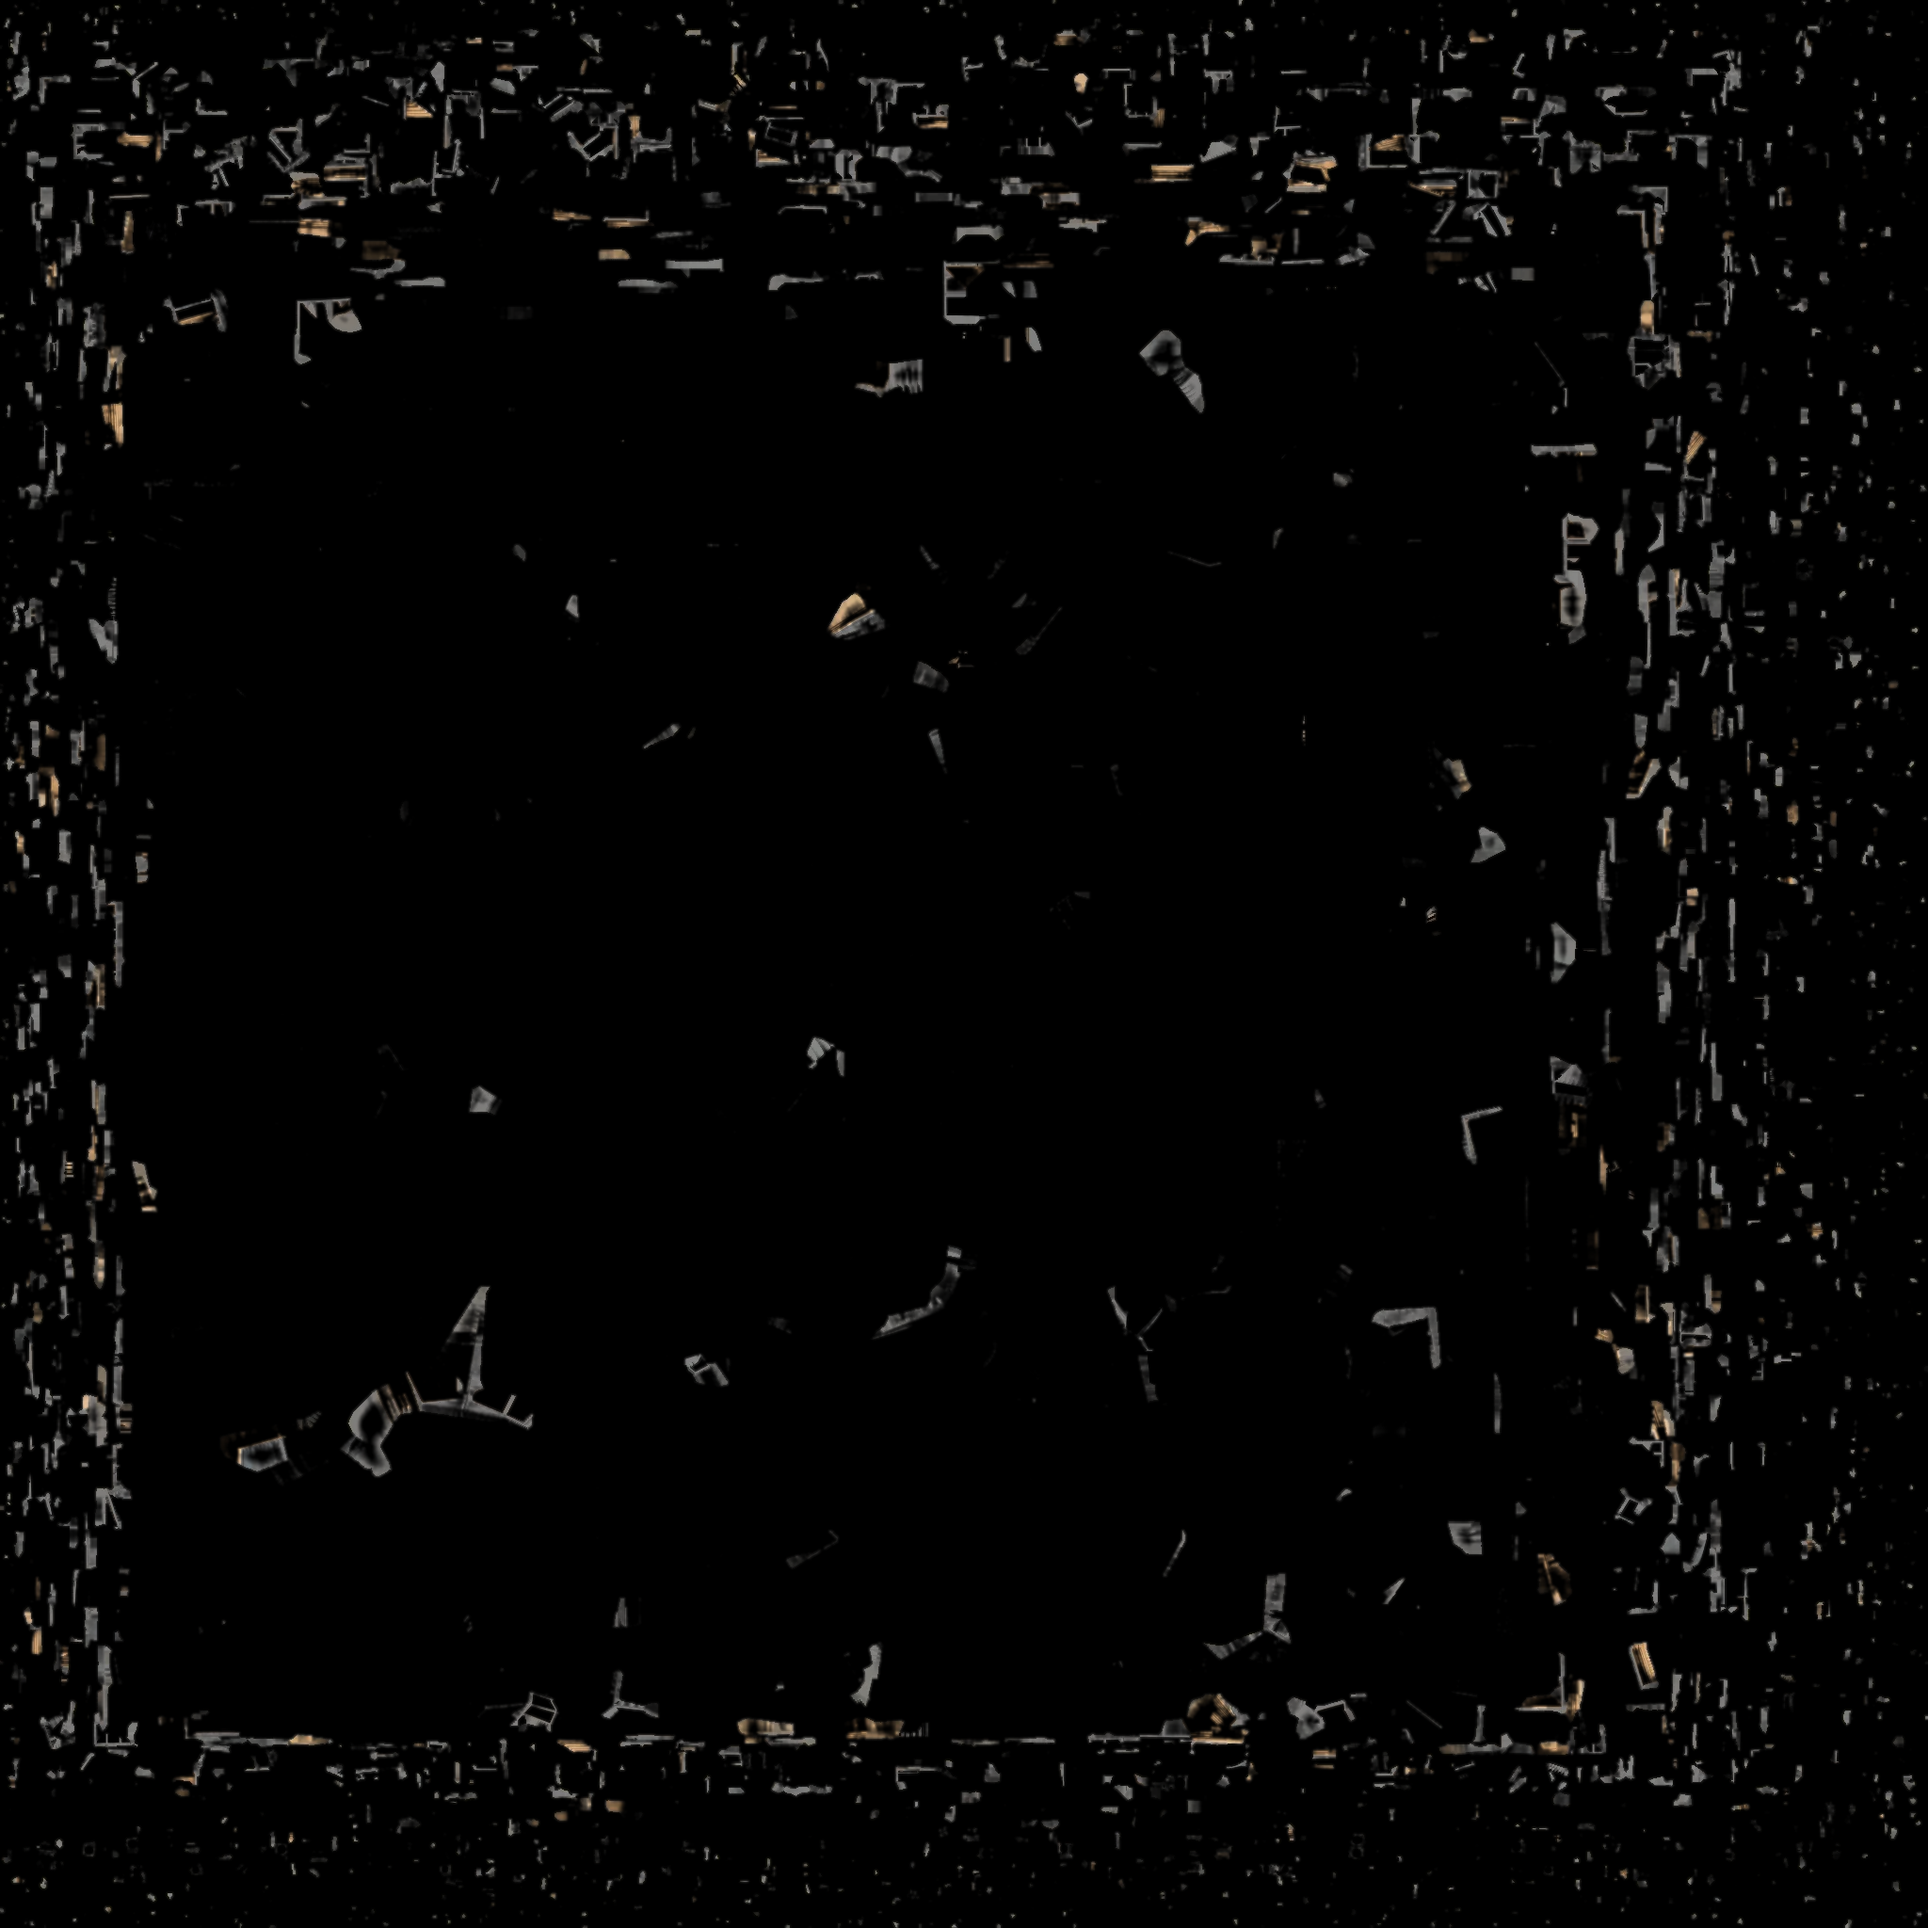
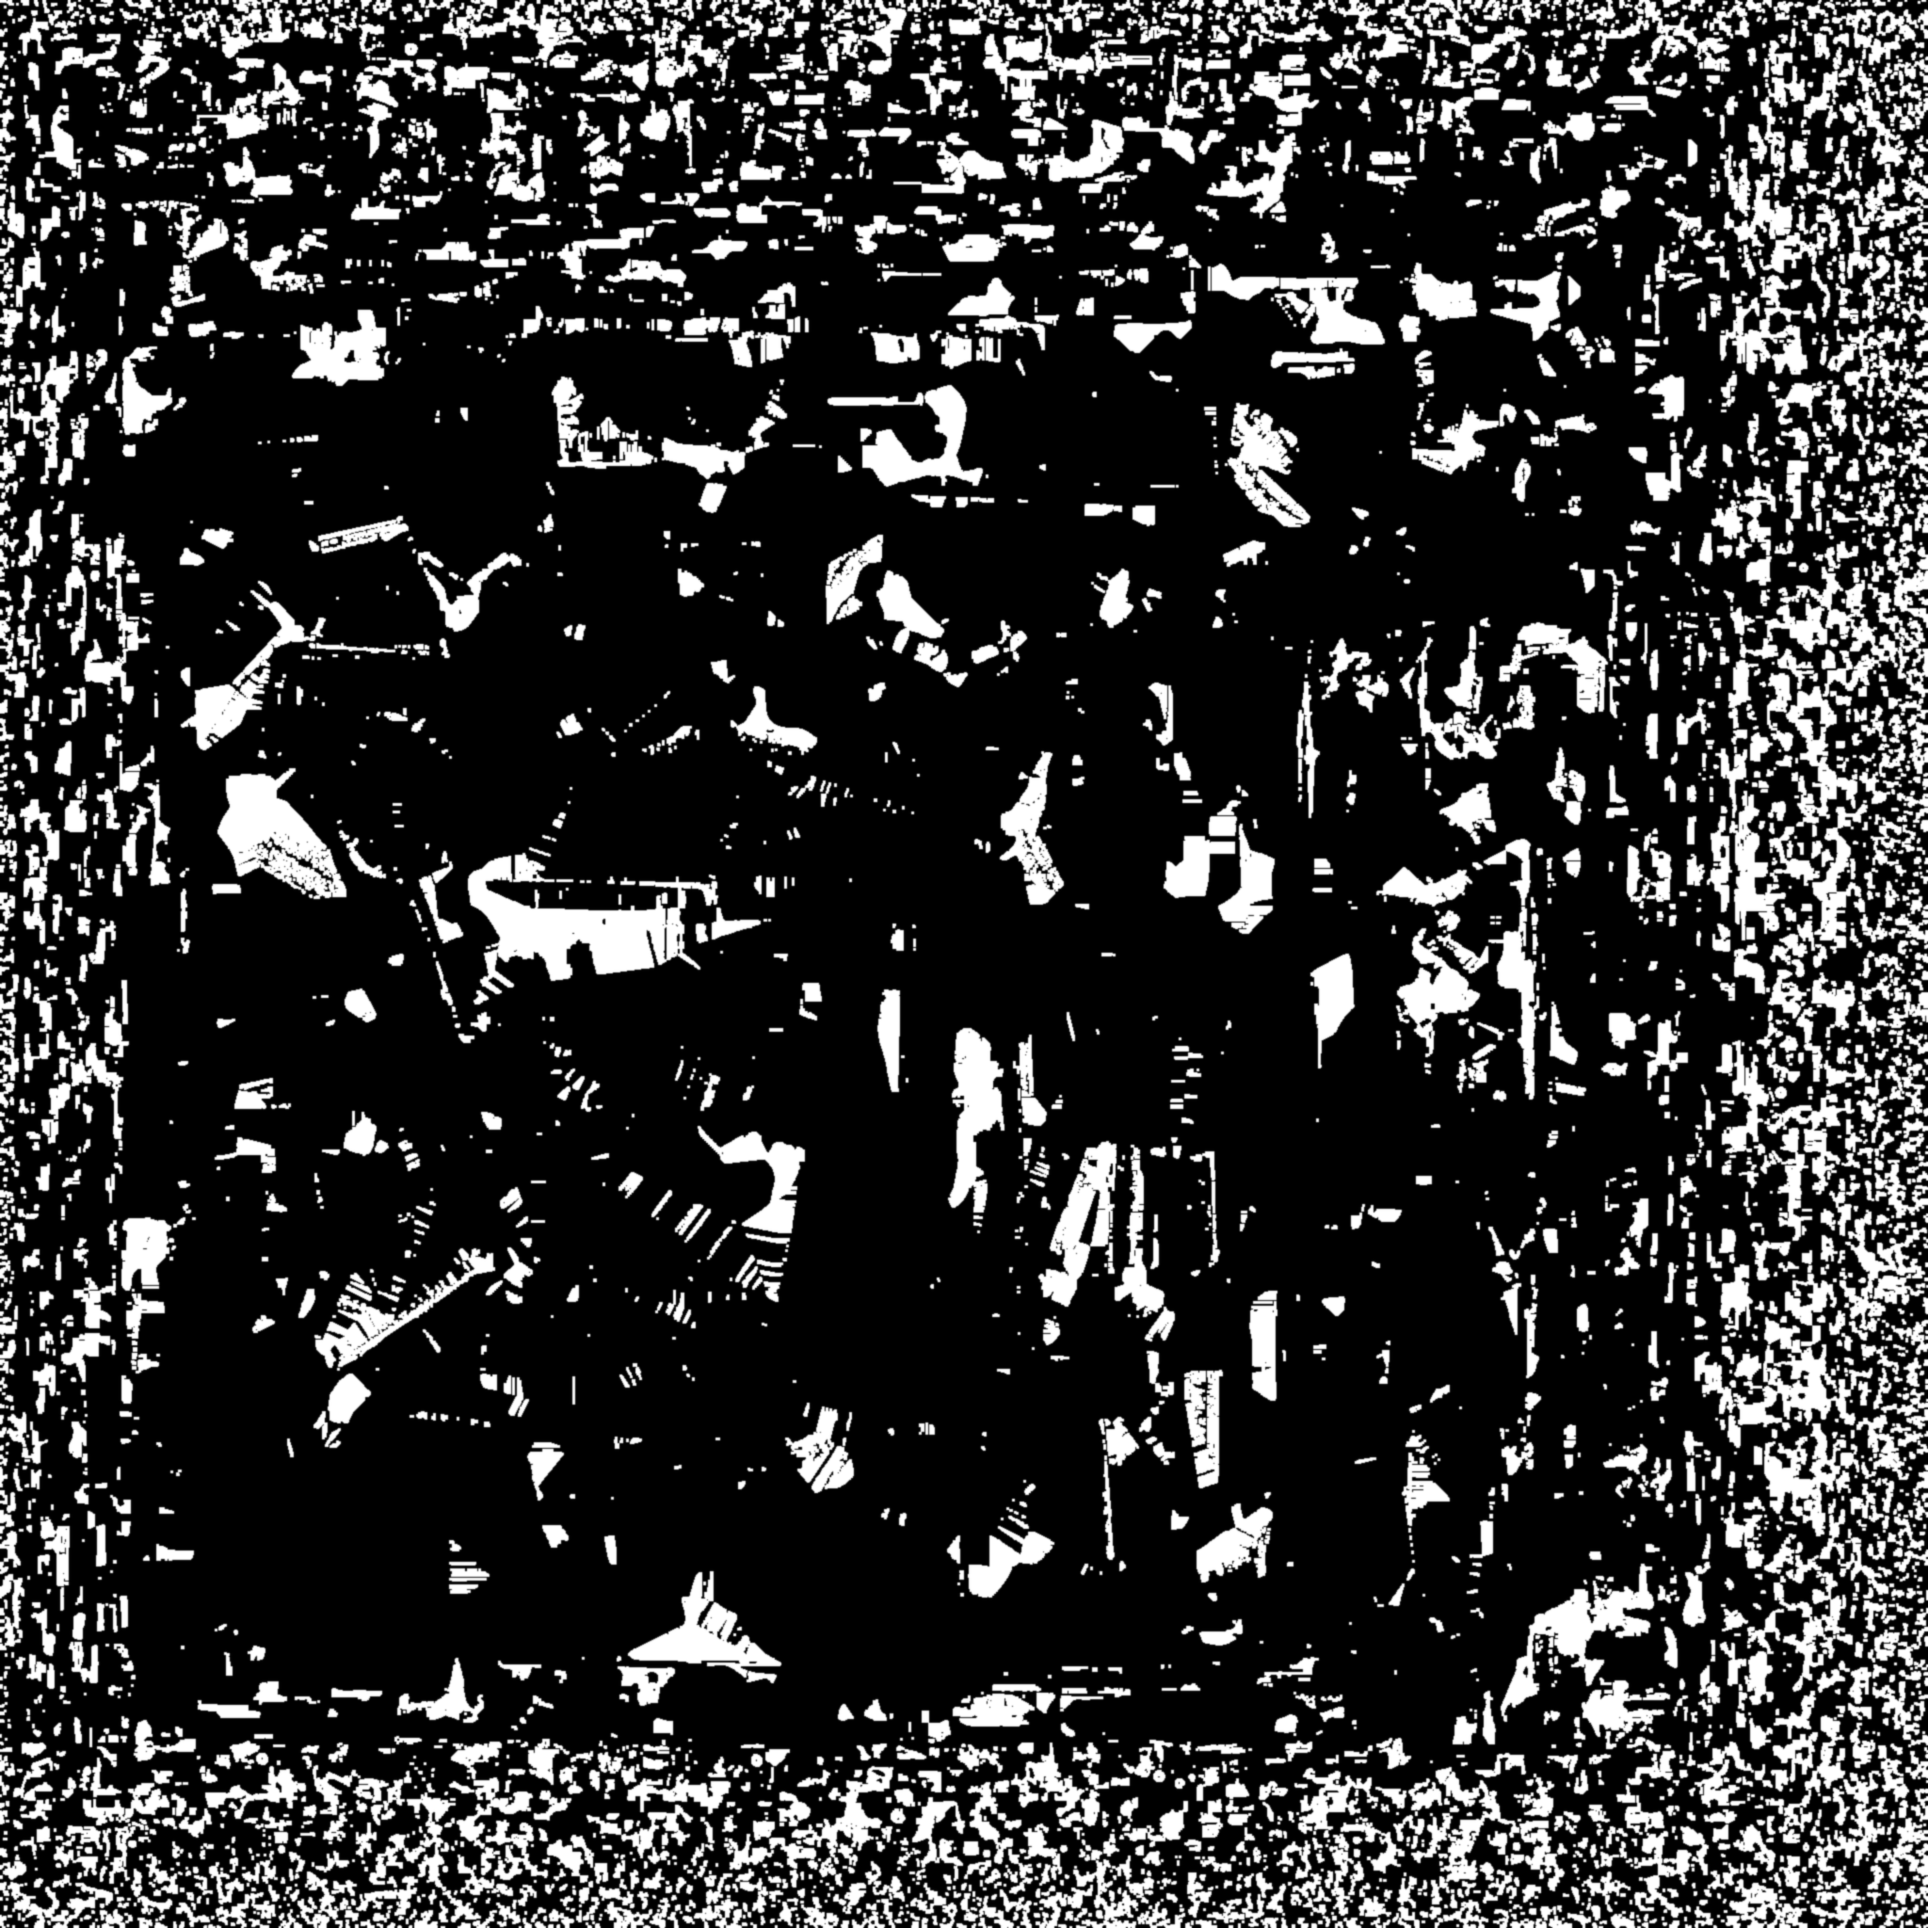
Light building windows with a world-cell shader
Meshy's PBR texturing removed most of the concepts' lit windows, so windows.png
is now a glass mask and an additive shader pass lights a random share of
window bays (warm and cold, varied brightness, dark ground floors).

Claude-Session: https://claude.ai/code/session_01LRvekBiu88ohufkwWL5E3T

diff --git a/tools/assets/generate.py b/tools/assets/generate.py
@@ -365,25 +365,23 @@ def glb_base_color(path):
 
 
 def make_window_emission(glb, dest):
-    """Meshy bakes the concept's lit windows into the base colour. Keeps only those
-    pixels (bright, warm or cold-white, brighter than the wall around them) so the
-    game can make them glow at night; everything else is black."""
+    """Finds the window glass in a building's base colour: dark, unsaturated or bluish
+    panes, plus any warm lights Meshy kept from the concept. Saves it as a greyscale
+    mask; the game's window shader lights a random share of it at night."""
     import numpy as np
     from PIL import Image, ImageFilter
     img = glb_base_color(glb)
     rgb = np.asarray(img, dtype=np.float32) / 255.0
     value = rgb.max(axis=2)
     sat = (value - rgb.min(axis=2)) / np.maximum(value, 1e-4)
-    local = np.asarray(img.convert("L").filter(ImageFilter.BoxBlur(12)), dtype=np.float32) / 255.0
-    luma = rgb @ np.array([0.299, 0.587, 0.114], dtype=np.float32)
-    warm = (rgb[..., 0] >= rgb[..., 2]) & (sat > 0.25)
-    mask = np.clip((value - 0.62) / 0.2, 0, 1) * np.clip((luma - local - 0.04) / 0.12, 0, 1)
-    mask *= np.where(warm, 1.0, 0.6)
-    mask = np.asarray(Image.fromarray((mask * 255).astype(np.uint8)).filter(ImageFilter.MaxFilter(3))
-                      .filter(ImageFilter.GaussianBlur(1)), dtype=np.float32) / 255.0
-    out = (rgb * mask[..., None] * 255).astype(np.uint8)
-    Image.fromarray(out).save(dest, optimize=True)
-    log(f"    window glow -> {dest.relative_to(ROOT)} ({mask.mean() * 100:.1f}% lit)")
+    dark = (value < 0.32) & (sat < 0.45)
+    bluish = (rgb[..., 2] > rgb[..., 0] + 0.04) & (value < 0.55)
+    warm_lit = (value > 0.8) & (sat > 0.3) & (rgb[..., 0] > rgb[..., 2])
+    mask = Image.fromarray(((dark | bluish | warm_lit) * 255).astype(np.uint8))
+    # An opening drops thin dark lines (railings, cracks, seams) and keeps the panes.
+    mask = mask.filter(ImageFilter.MinFilter(3)).filter(ImageFilter.MaxFilter(3)).filter(ImageFilter.GaussianBlur(0.8))
+    mask.save(dest, optimize=True)
+    log(f"    window mask -> {dest.relative_to(ROOT)} ({np.asarray(mask).mean() / 2.55:.1f}% glass)")
 
 
 def _period(signal):
